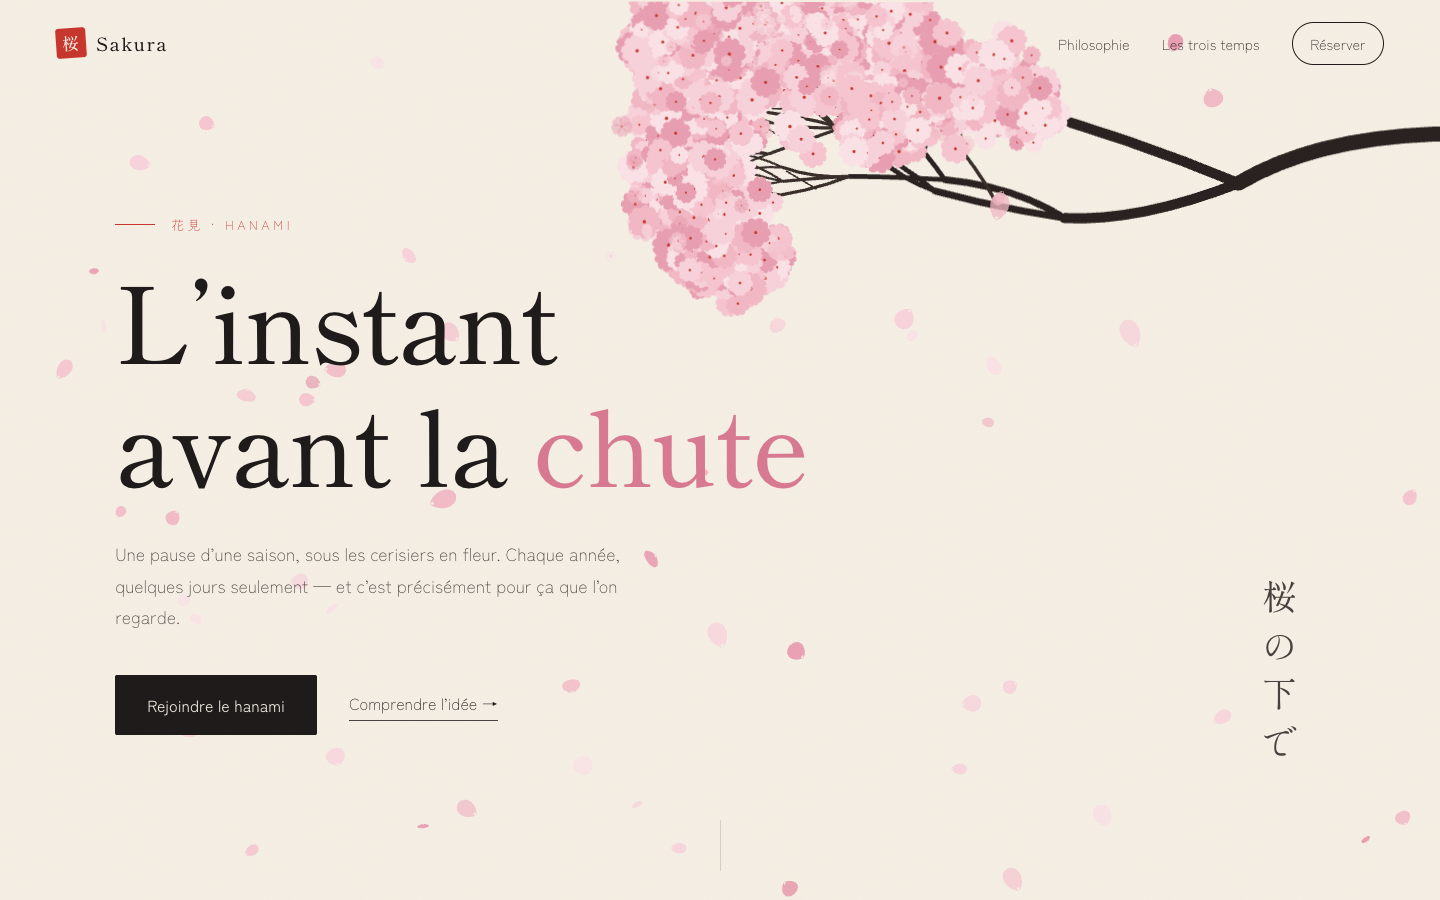
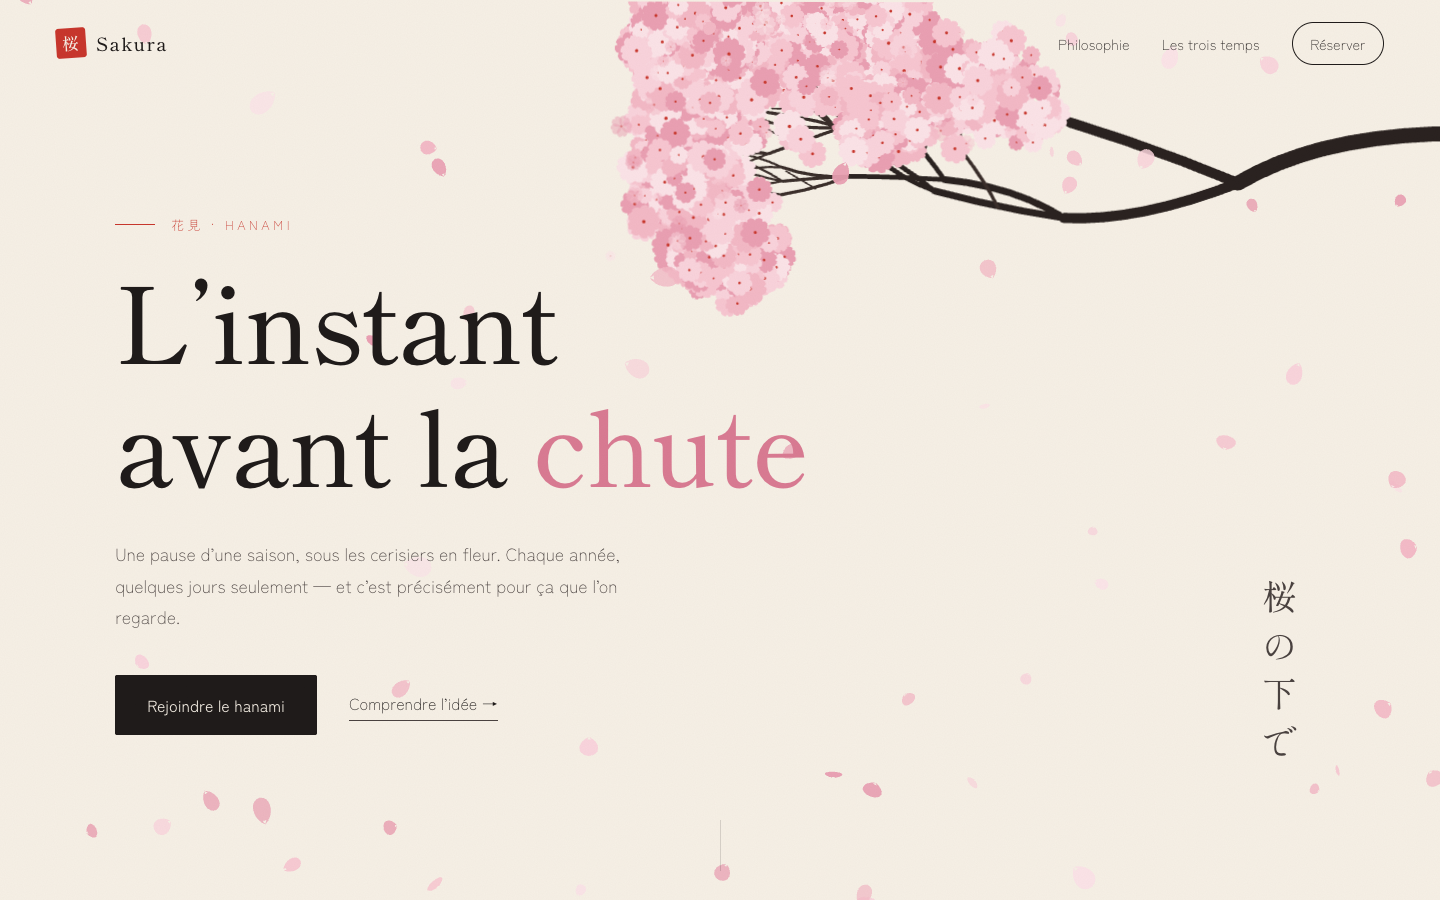
Fix canvas size on high-density screens and refresh screenshots

diff --git a/src/components/SakuraCanvas.vue b/src/components/SakuraCanvas.vue
@@ -19,6 +19,8 @@ onBeforeUnmount(() => scene?.destroy())
 .sakura {
   position: fixed;
   inset: 0;
+  width: 100%;
+  height: 100%;
   z-index: 1;
   pointer-events: none;
 }
